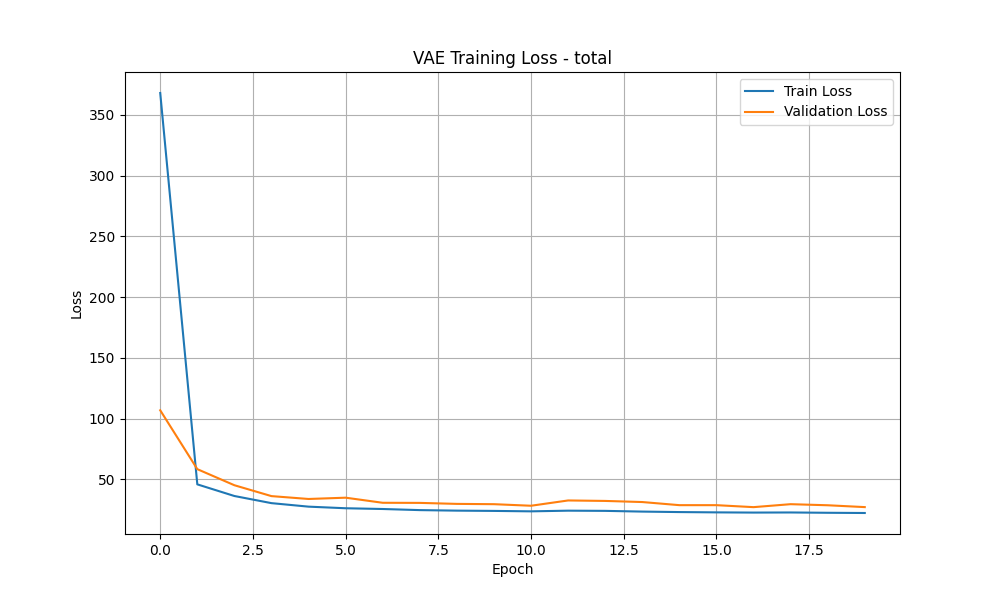
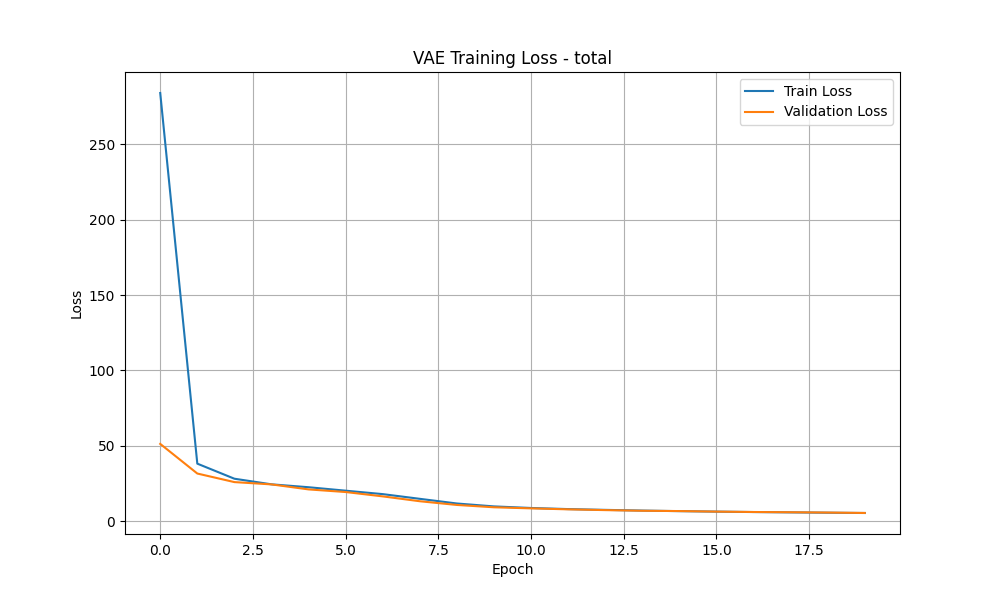
another vqvae

diff --git a/WorldModelExp/vae/testVae.py b/WorldModelExp/vae/testVae.py
@@ -13,6 +13,10 @@ from global_var import CURRENT_ENV
 from helpers.data import make_img_dataloader
 import matplotlib.pyplot as plt
 
+LATENT_DIM = 80
+CODE_DEPTH = 32
+LATENT_DIM_VQ = 8
+CODEBOOK_SIZE = 512
 # file to test VAE training
 # shows a couple of reconstructed images after training
 if __name__ == "__main__":
@@ -21,15 +25,15 @@ if __name__ == "__main__":
 		latent_dim=80,
 	).to(device)
 	vq_vae = VQVAE(
-		codebook_size=512,
-		code_depth=32,
-		latent_dim=4,
+		codebook_size=CODEBOOK_SIZE,
+		code_depth=CODE_DEPTH,
+		latent_dim=LATENT_DIM_VQ,
 		commitment_cost=0.25,
 		device=device
 	).to(device)
 	print(f"Testing {CURRENT_ENV['env_name']} VAE model")
-	vq_vae.load_state_dict(torch.load(CURRENT_ENV['vae_model'], map_location=device))
-	base_vae.load_state_dict(torch.load('vae_model.pth', map_location=device))
+	vq_vae.load_state_dict(torch.load(CURRENT_ENV['data_dir'] + "final_models/" + f"vqvae_model_{LATENT_DIM_VQ}_{CODE_DEPTH}.pth", map_location=device))
+	base_vae.load_state_dict(torch.load(CURRENT_ENV['vae_model'], map_location=device))
 	
 	vq_vae.eval()
 	base_vae.eval()

diff --git a/WorldModelExp/vae/trainVAE.py b/WorldModelExp/vae/trainVAE.py
@@ -4,7 +4,7 @@ import os
 import sys
 sys.path.insert(1, os.path.join(sys.path[0], '../'))
 
-basic = True
+basic = False
 if basic:
 	from vae.myVae import CVAE as VAE
 else:
@@ -29,7 +29,7 @@ if __name__ == "__main__":
 	else:
 		vae = VAE(codebook_size=512,
 				code_depth=32,
-				latent_dim=4,
+				latent_dim=8,
 				commitment_cost=0.25,
 				device=DEVICE)
 	print(vae)

diff --git a/WorldModelExp/global_var.py b/WorldModelExp/global_var.py
@@ -3,7 +3,7 @@ DREAM_VERSION = False
 
 IMG_DIR = "imgs/"
 TRANSITIONS = "transition_data.json"
-VAE_MODEL = "vqvae_model.pth"
+VAE_MODEL = "vae_model.pth"
 MDRNN_MODEL = "mdrnn_model.pth"
 PPO_MODEL = "ppo_model"
 
